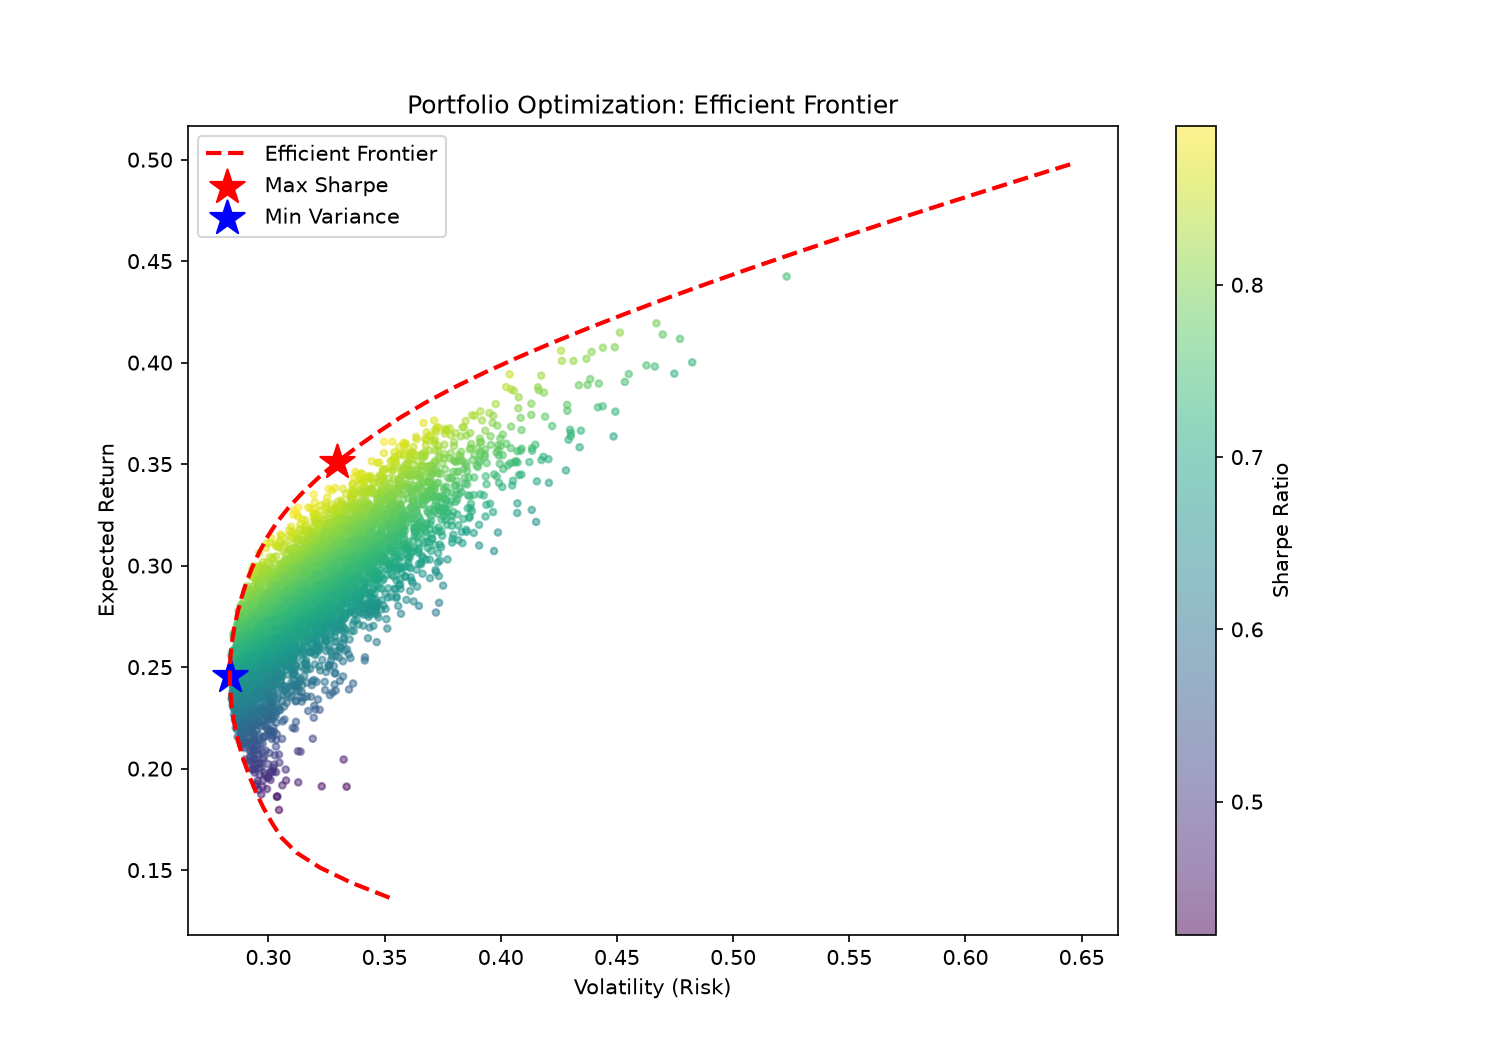
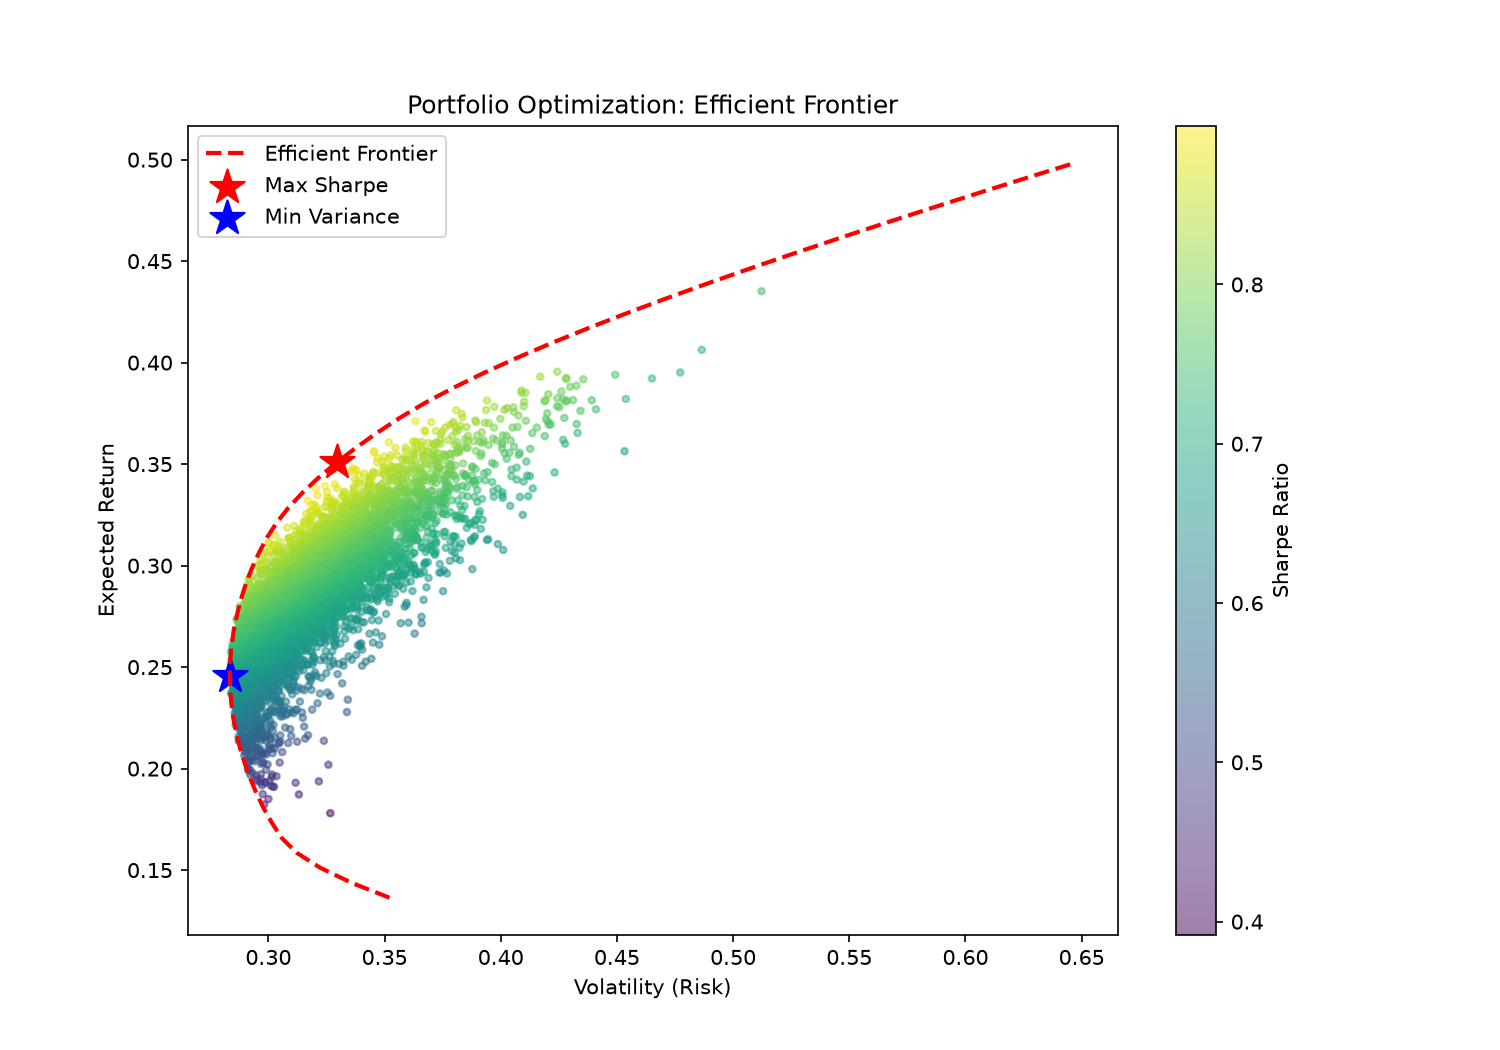
Added rolling walk-forward backtest with turnover diagnostic vs equal-weight benchmark

Changed region(s): [[0.1533, 0.3048, 0.46, 0.7619], [0.828, 0.579, 0.8587, 0.6095], [0.1533, 0.5181, 0.184, 0.5486]]

diff --git a/src/backtest.py b/src/backtest.py
@@ -1,0 +1,95 @@
+import numpy as np
+import pandas as pd
+from src.stats import annualized_mean_returns, annualized_covariance
+from src.optimizer import max_sharpe_portfolio
+
+def rolling_backtest(prices: pd.DataFrame, log_returns: pd.DataFrame,
+                      lookback=252, rebalance_freq=21, risk_free_rate=0.05):
+    """
+    Walk-forward backtest. At each rebalance date, uses only trailing
+    `lookback` days of returns to pick weights — no future data leakage.
+    """
+    dates = log_returns.index
+    n_days = len(dates)
+    tickers = log_returns.columns.tolist()
+
+    portfolio_value = [1.0]      # starts at $1, normalized
+    equal_weight_value = [1.0]
+    dates_used = [dates[lookback]]
+
+    current_weights = None
+    eq_weights = np.array([1.0 / len(tickers)] * len(tickers))
+
+    for i in range(lookback, n_days - 1):
+        # Rebalance check
+        if current_weights is None or (i - lookback) % rebalance_freq == 0:
+            window = log_returns.iloc[i - lookback:i]
+            mean_ret = annualized_mean_returns(window)
+            cov = annualized_covariance(window)
+            try:
+                current_weights = max_sharpe_portfolio(mean_ret, cov, risk_free_rate)
+            except Exception:
+                current_weights = eq_weights  # fallback if optimizer fails
+
+        # Apply today's actual return to grow portfolio value
+        day_return = log_returns.iloc[i].values
+        port_ret = np.dot(current_weights, day_return)
+        eq_ret = np.dot(eq_weights, day_return)
+
+        portfolio_value.append(portfolio_value[-1] * np.exp(port_ret))
+        equal_weight_value.append(equal_weight_value[-1] * np.exp(eq_ret))
+        dates_used.append(dates[i + 1])
+
+    results = pd.DataFrame({
+        "optimized": portfolio_value,
+        "equal_weight": equal_weight_value
+    }, index=dates_used)
+
+    return results
+
+def compute_metrics(results: pd.DataFrame, risk_free_rate=0.05):
+    metrics = {}
+    for col in results.columns:
+        daily_ret = np.log(results[col] / results[col].shift(1)).dropna()
+        annual_ret = daily_ret.mean() * 252
+        annual_vol = daily_ret.std() * np.sqrt(252)
+        sharpe = (annual_ret - risk_free_rate) / annual_vol
+        max_drawdown = ((results[col] / results[col].cummax()) - 1).min()
+
+        metrics[col] = {
+            "Total Return": f"{(results[col].iloc[-1] - 1):.2%}",
+            "Annualized Return": f"{annual_ret:.2%}",
+            "Annualized Volatility": f"{annual_vol:.2%}",
+            "Sharpe Ratio": f"{sharpe:.2f}",
+            "Max Drawdown": f"{max_drawdown:.2%}"
+        }
+    return pd.DataFrame(metrics)
+
+
+def compute_turnover(prices, log_returns, lookback=252, rebalance_freq=21, risk_free_rate=0.05):
+    """
+    Measures how much weights change at each rebalance.
+    High turnover = high implied transaction costs in real trading.
+    """
+    dates = log_returns.index
+    n_days = len(dates)
+    tickers = log_returns.columns.tolist()
+
+    prev_weights = None
+    turnovers = []
+
+    for i in range(lookback, n_days - 1, rebalance_freq):
+        window = log_returns.iloc[i - lookback:i]
+        mean_ret = annualized_mean_returns(window)
+        cov = annualized_covariance(window)
+        try:
+            weights = max_sharpe_portfolio(mean_ret, cov, risk_free_rate)
+        except Exception:
+            weights = np.array([1.0 / len(tickers)] * len(tickers))
+
+        if prev_weights is not None:
+            turnover = np.sum(np.abs(weights - prev_weights))
+            turnovers.append(turnover)
+        prev_weights = weights
+
+    return np.mean(turnovers) if turnovers else 0.0

diff --git a/main.py b/main.py
@@ -22,3 +22,20 @@ print(f"Expected Return: {ret:.2%}, Volatility: {std:.2%}, Sharpe: {sharpe:.2f}"
 
 mc_results, _ = simulate_random_portfolios(5000, mean_returns, cov_matrix)
 plot_everything(mc_results, mean_returns, cov_matrix)
+
+from src.backtest import rolling_backtest, compute_metrics
+
+results = rolling_backtest(prices, log_returns)
+metrics = compute_metrics(results)
+print("\nBacktest Results:")
+print(metrics)
+
+results.plot(figsize=(10, 6), title="Rolling Backtest: Optimized vs Equal-Weight")
+import matplotlib.pyplot as plt
+plt.ylabel("Portfolio Value (normalized to $1)")
+plt.savefig("backtest_results.png", dpi=150)
+
+from src.backtest import compute_turnover
+avg_turnover = compute_turnover(prices, log_returns)
+print(f"\nAverage turnover per rebalance: {avg_turnover:.2%}")
+